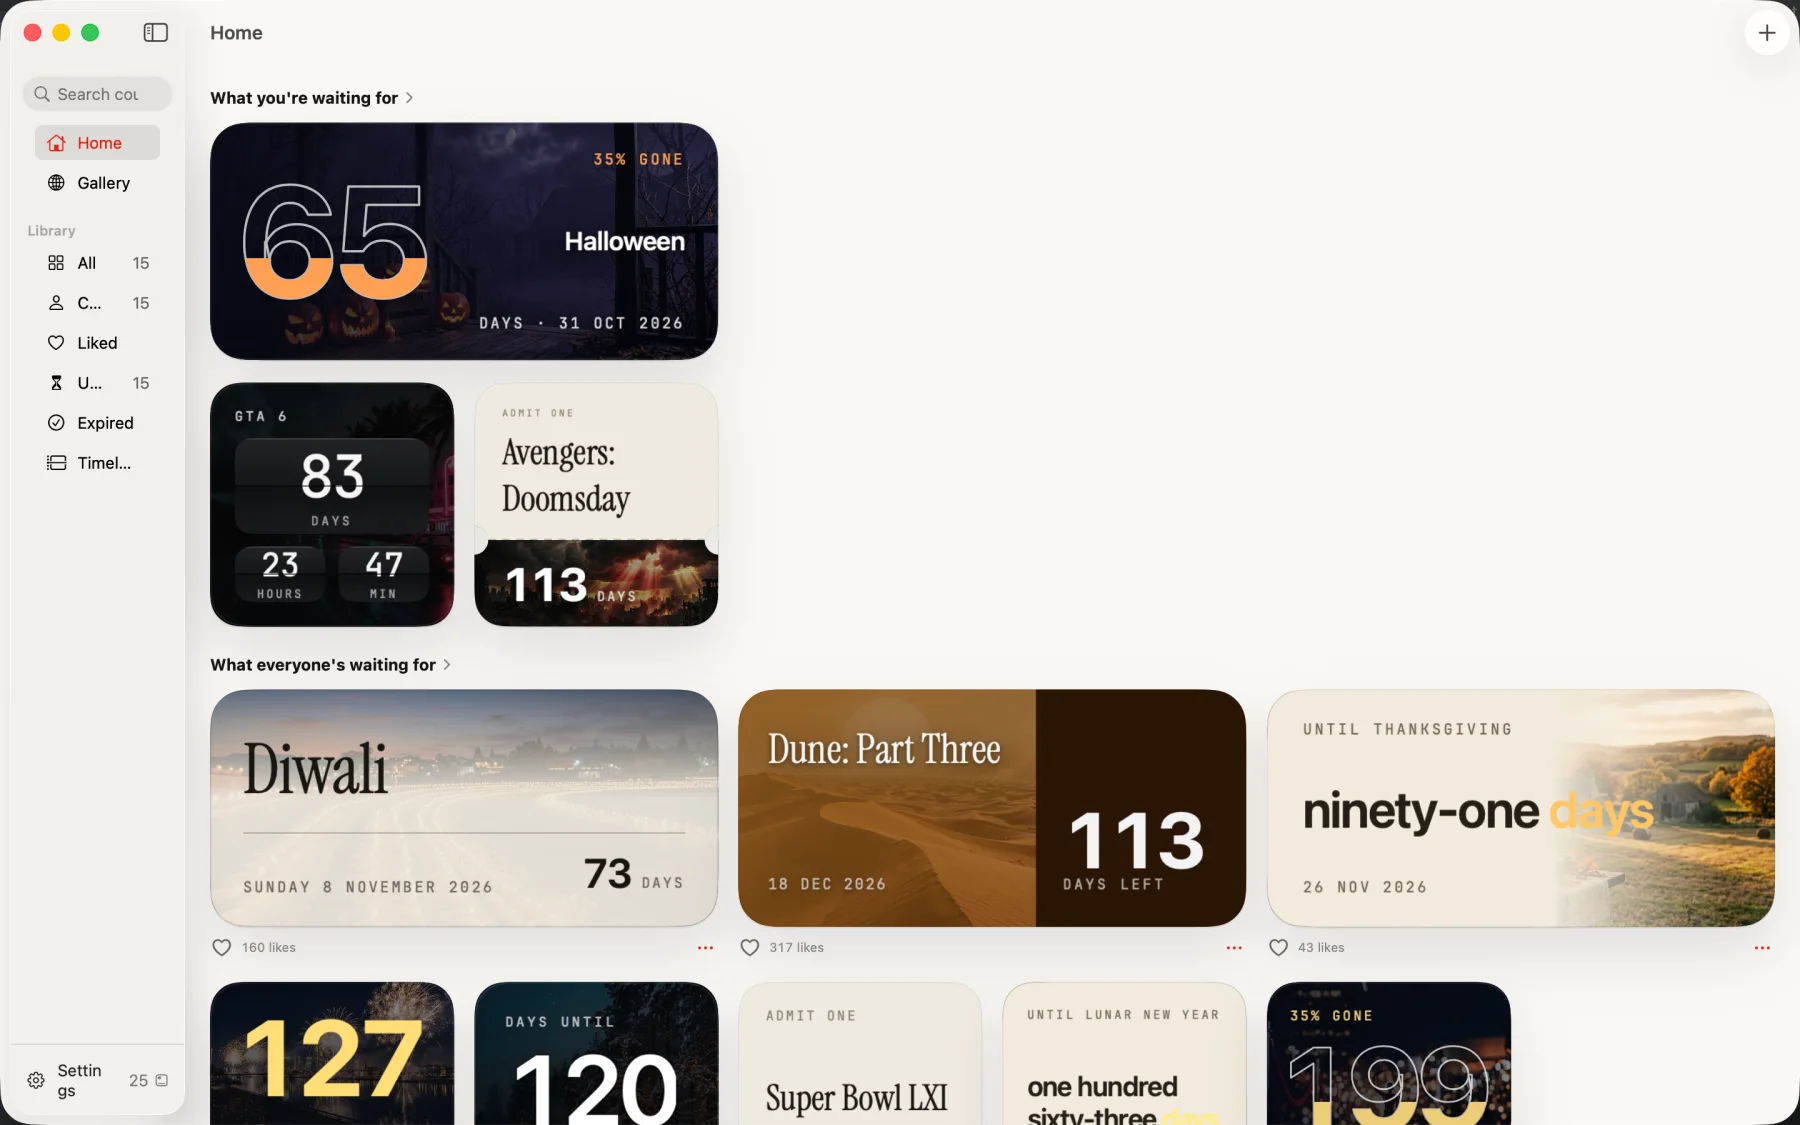
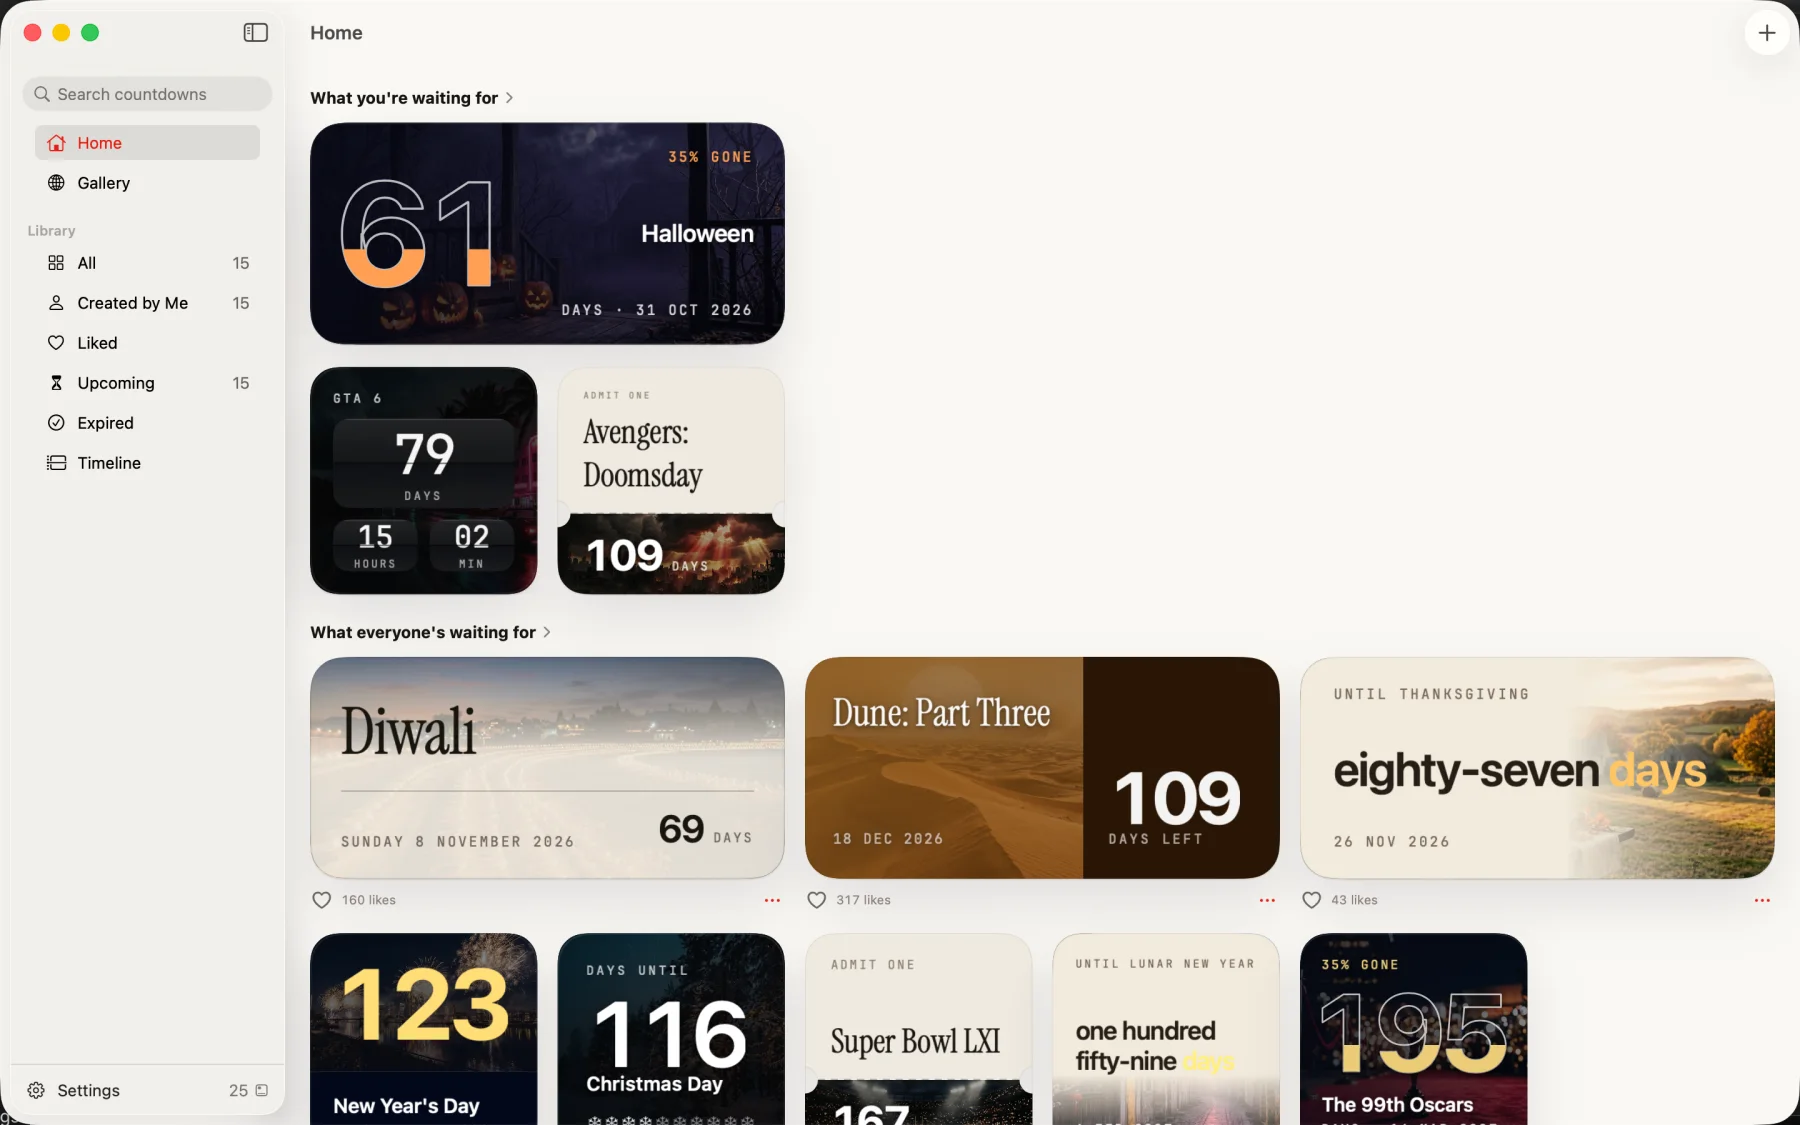
AnyCountdown: refresh the app screenshots from the current captures
All five screens on the page were still the ones baked into the video project
back in August. Re-encode them from ~/Desktop/AnyTimers Screenshots, which was
re-captured today and is now the canonical source for the stills:

  phone-home      <- iPhone-17-Pro-Max/light/01-home
  phone-timeline  <- iPhone-17-Pro-Max/light/02-timeline
  phone-gallery   <- iPhone-17-Pro-Max/light/03-browse
  ipad-home       <- iPad-Pro-13/light/01-home
  mac-home        <- Mac/light/01-home

The new captures come out at the same pixel sizes as the old ones, so no markup
or CSS changes: the width/height attributes still match, the iPad is still
2752x2064 so .tablet__screen keeps its aspect-ratio, and the Mac capture still
bakes in the same ~40px corner against a dark backing that .platforms__mac's
2.4cqw radius is sized to cover.

Restore the assets provenance table in the README — it was lost in an earlier
rewrite of that section — with the new sourcing, a note that the light variants
are the ones this page wants, and a warning that the screenshot folder is not
version-controlled.

diff --git a/AnyCountdown/README.md b/AnyCountdown/README.md
@@ -70,6 +70,44 @@ The reel is muted and never loops. If a browser refuses to autoplay it, or the r
 asked for reduced motion, the script parks it on the last frame rather than leaving an empty
 band where the hero should be. A quiet Replay control sits in the bottom-right corner.
 
+### Where `assets/` comes from
+
+Nothing in `assets/` is authored here — it is all re-encoded from two places, so that is
+where to go when something needs regenerating.
+
+| File | Source | Recipe |
+|---|---|---|
+| `phone-home.webp` | `~/Desktop/AnyTimers Screenshots/iPhone-17-Pro-Max/light/01-home.png` | `cwebp -q 84 -resize 800 0` |
+| `phone-timeline.webp` | same folder, `02-timeline.png` | `cwebp -q 84 -resize 800 0` |
+| `phone-gallery.webp` | same folder, `03-browse.png` | `cwebp -q 84 -resize 800 0` |
+| `ipad-home.webp` | `iPad-Pro-13/light/01-home.png` | `cwebp -q 84 -resize 1300 0` |
+| `mac-home.webp` | `Mac/light/01-home.png` | `cwebp -q 84 -resize 1800 0` |
+| `hero-wide.mp4` | app repo, `videos/any-countdown-reveal/renders/video.mp4` | audio stripped, `libx264 -crf 28`, faststart, untrimmed |
+| `hero-tablet.mp4` | `videos/any-countdown-reveal-ipad/renders/video.mp4` | same recipe |
+| `hero-portrait.mp4` | `videos/any-countdown-reveal-iphone/renders/video.mp4` | same recipe **plus `crop=886:1680:0:240`** — see above |
+| `hero-poster.jpg` | frame 0 of the wide cut | Near-blank cream, which is the point: it matches every cut's first frame, so playback starts with no flicker, and it covers all three box shapes. |
+| `og.jpg` | wide reel @ 4.0s | 1200×630 social card |
+| `widgets/*.webp` | app repo, `videos/any-countdown-reveal/assets/widget-*.png` | `cwebp -q 84`, 880px wide for mediums, 400px for smalls |
+| `icon-*.png` | the app's 1024px icon | `sips -Z` down to 512 / 180 / 96 / 32. Also the source for `assets/icon-anycountdown.png` on the site home page. |
+| `fonts/*.woff2` | app repo, `videos/any-countdown-reveal/assets/fonts/` | Copied as-is. Inter (OFL) and JetBrains Mono (Apache 2.0), both variable, both subset to Latin. |
+
+Two things to know about the screenshots:
+
+- **Use the `light` variants.** The page is cream; the `dark` captures alongside them are for
+  App Store listings, not this.
+- **The encoded `.webp` in this repo is the only copy the site has.** The screenshot folder
+  lives on a Desktop and is not version-controlled, so a re-capture that changes the app's
+  layout will not show up here until someone re-runs the recipes above.
+
+The screenshot set also carries `04-creation`, `05-thinking`, `06-draft` and `07-preview`,
+which the page does not currently use. `06-draft` — the generated "Like this one?" Dune:
+Part Three widget — is the closest match to the "Describe it, AI makes it" section's copy if
+that section ever wants a screen that argues for it.
+
+Every `<img>` carries `width`/`height` attributes matching the encoded pixel size. **Keep
+them in step** — a mismatch is not just a CLS problem here: the attributes are a
+presentational hint, and `styles.css` leans on `height: auto` to defeat them.
+
 ## `remote-config.json`
 
 Read by the app at launch (`AnyTimers/HostedConfig.swift` in the app repo — the target kept its old
